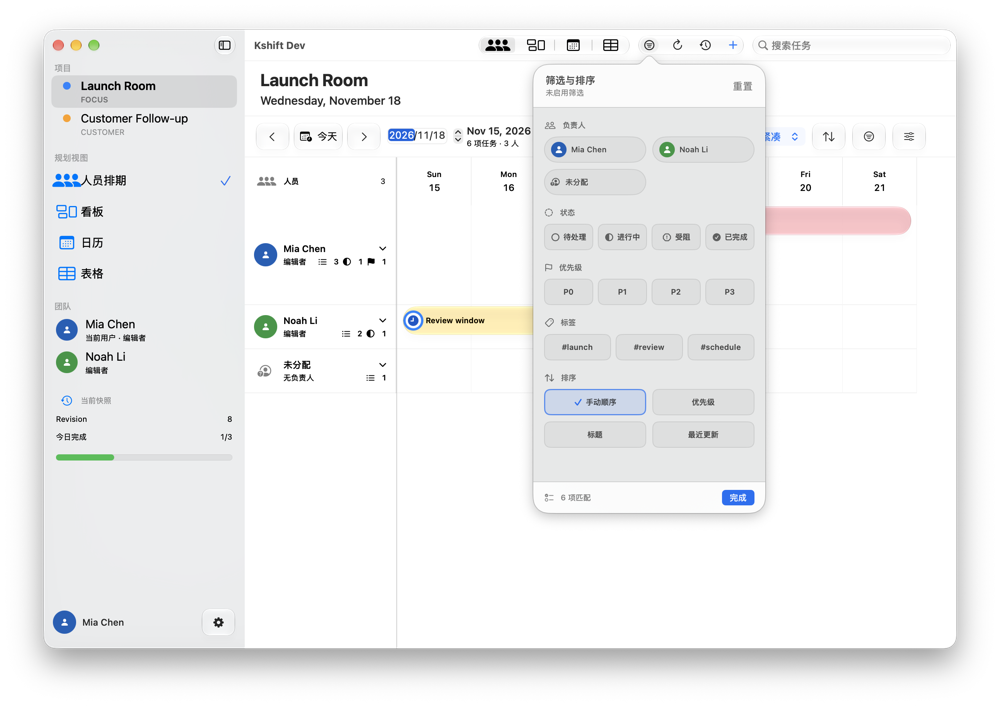
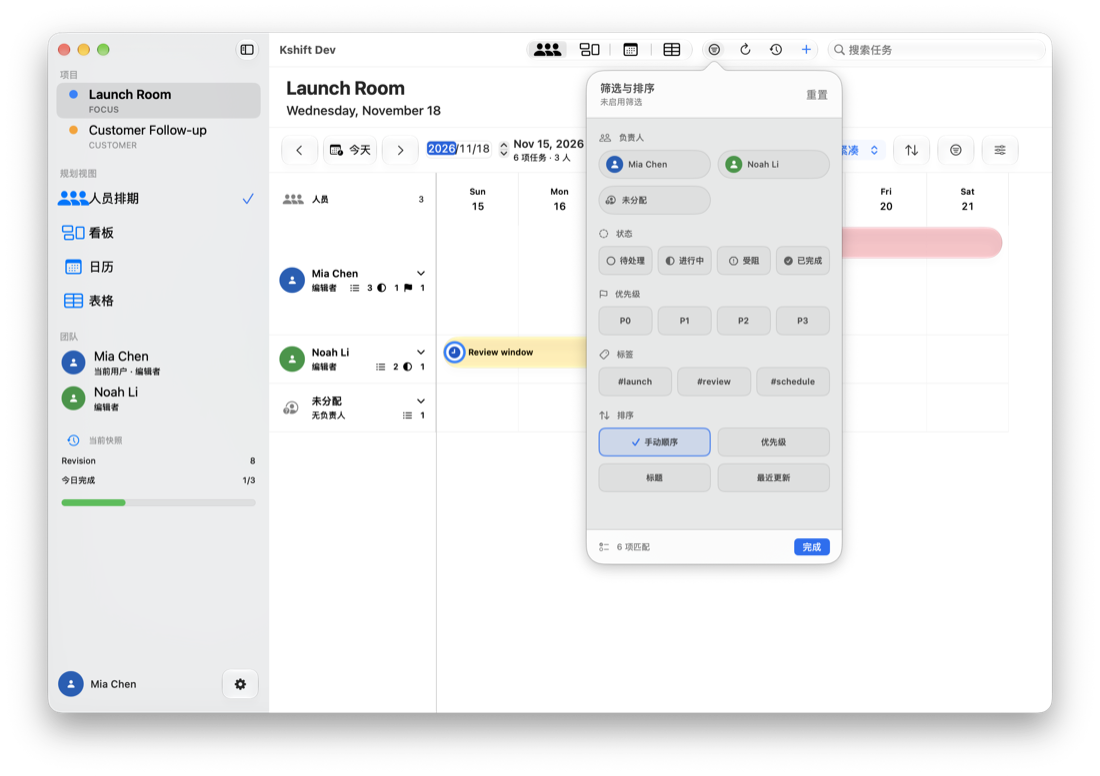
Complete filter Popover acceptance coverage
Closes #103

diff --git a/Sources/KshiftUI/PlannerView.swift b/Sources/KshiftUI/PlannerView.swift
@@ -178,7 +178,10 @@ struct PlannerView: View {
     private var plannerControls: some View {
         if model.viewMode == .peopleSchedule {
             if horizontalSizeClass == .compact {
-                viewModePicker
+                VStack(alignment: .leading, spacing: 10) {
+                    viewModePicker
+                    compactActionBar
+                }
             }
         } else if usesAccessibilityLayout {
             accessibilityControls
@@ -239,6 +242,8 @@ struct PlannerView: View {
                 .frame(width: 30, height: 30)
         }
         .buttonStyle(KshiftCompactGlassButtonStyle())
+        .frame(minWidth: 44, minHeight: 44)
+        .contentShape(Rectangle())
         .accessibilityLabel("筛选任务")
         .accessibilityIdentifier("filter-button")
         .popover(isPresented: $isShowingFilters, arrowEdge: .bottom) {
@@ -350,6 +355,8 @@ struct PlannerUtilityControls: View {
                         .frame(width: 30, height: 30)
                 }
                 .buttonStyle(KshiftCompactGlassButtonStyle())
+                .frame(minWidth: 44, minHeight: 44)
+                .contentShape(Rectangle())
                 .help("筛选任务")
                 .accessibilityLabel("筛选任务")
                 .accessibilityIdentifier("filter-button")

diff --git a/Sources/KshiftUI/Settings/KshiftAppSettingsView.swift b/Sources/KshiftUI/Settings/KshiftAppSettingsView.swift
@@ -163,7 +163,11 @@ private struct KshiftUpdateSettingsSection: View {
                         Button("View Release Notes") {
                             Swift.Task { _ = await model.platformCapabilities.openExternalURL(notesURL) }
                         }
+#if os(macOS)
                         .buttonStyle(.link)
+#else
+                        .buttonStyle(.plain)
+#endif
                         .accessibilityIdentifier("view-release-notes")
                     }
                     Button("Install Update") {

diff --git a/Apps/KshiftIOSUITests/KshiftIOSUITests.swift b/Apps/KshiftIOSUITests/KshiftIOSUITests.swift
@@ -4,6 +4,7 @@ import XCTest
 final class KshiftIOSUITests: XCTestCase {
     override func setUpWithError() throws {
         continueAfterFailure = false
+        XCUIDevice.shared.orientation = .portrait
     }
 
     func testCreateTaskThroughSharedPlanner() throws {

diff --git a/docs/evidence/people-schedule/glass-task-bar/README.md b/docs/evidence/people-schedule/glass-task-bar/README.md
@@ -115,7 +115,7 @@ description: 记录人员排期任务条使用原生染色 Liquid Glass、明亮
[8 lines of base64/hex data omitted]
@@ -138,7 +138,7 @@ description: 记录人员排期任务条使用原生染色 Liquid Glass、明亮
 | Person-header manual visual check | 通过；`168pt` and `196pt` and `320pt` widths；compact density |
 | Person-header density check | 通过；`168pt` width with compact and standard and comfortable density |
 | Window-toolbar manual visual check | 通过；single native glass surface；flat filter/refresh/audit actions；accent New Task |
-| Schedule-filter interaction check | 通过；filter icon opens `FilterPopover`；compact layout keeps one filter action |
+| Schedule-filter interaction check | 通过；filter icon opens `FilterPopover`；compact PeopleSchedule exposes one visible filter action；chip selection、reset、sort and Done are covered |
 | Filter-popover content visual check | 通过；`300pt × 580pt`；fixed header/footer；complete chip grids；no clipping or dead space |
 | Schedule-sort menu check | 通过；first-level options；current-item checkmark updates after selection |
 | Task-detail panel visual check | 通过；`简约` and `详情` modes；red close light；centered title；neutral mode control；header/body/footer remain visible |
